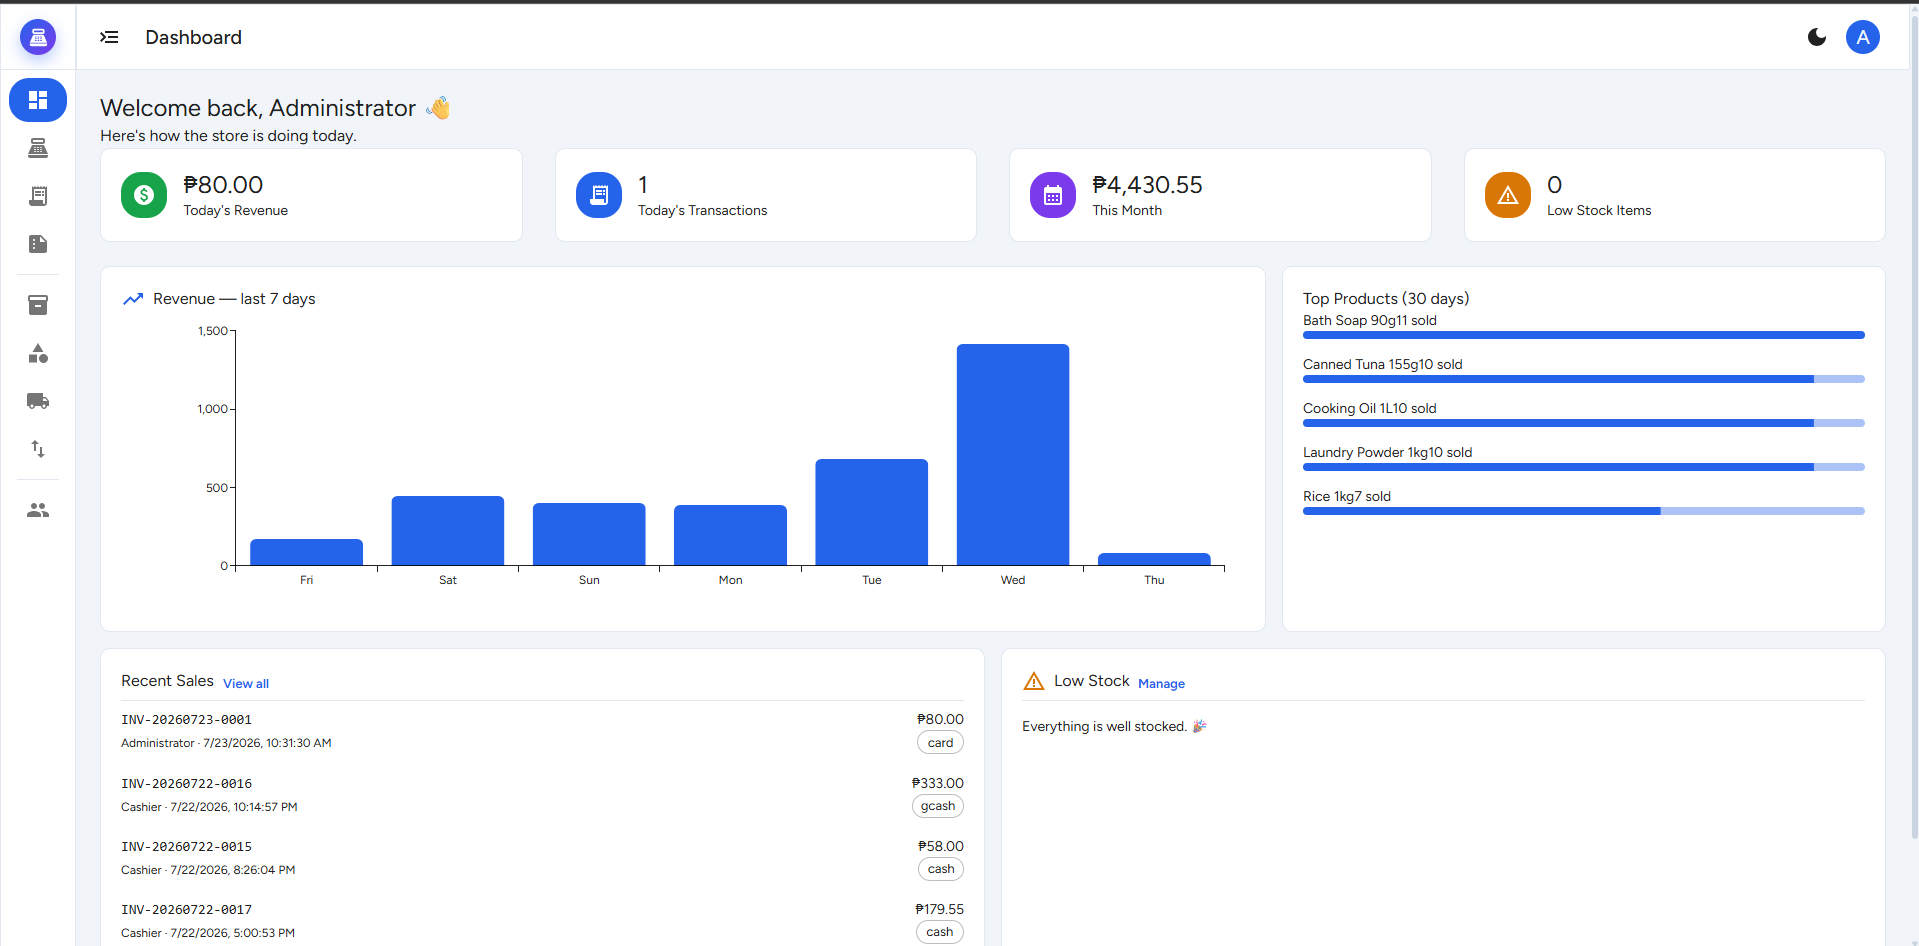
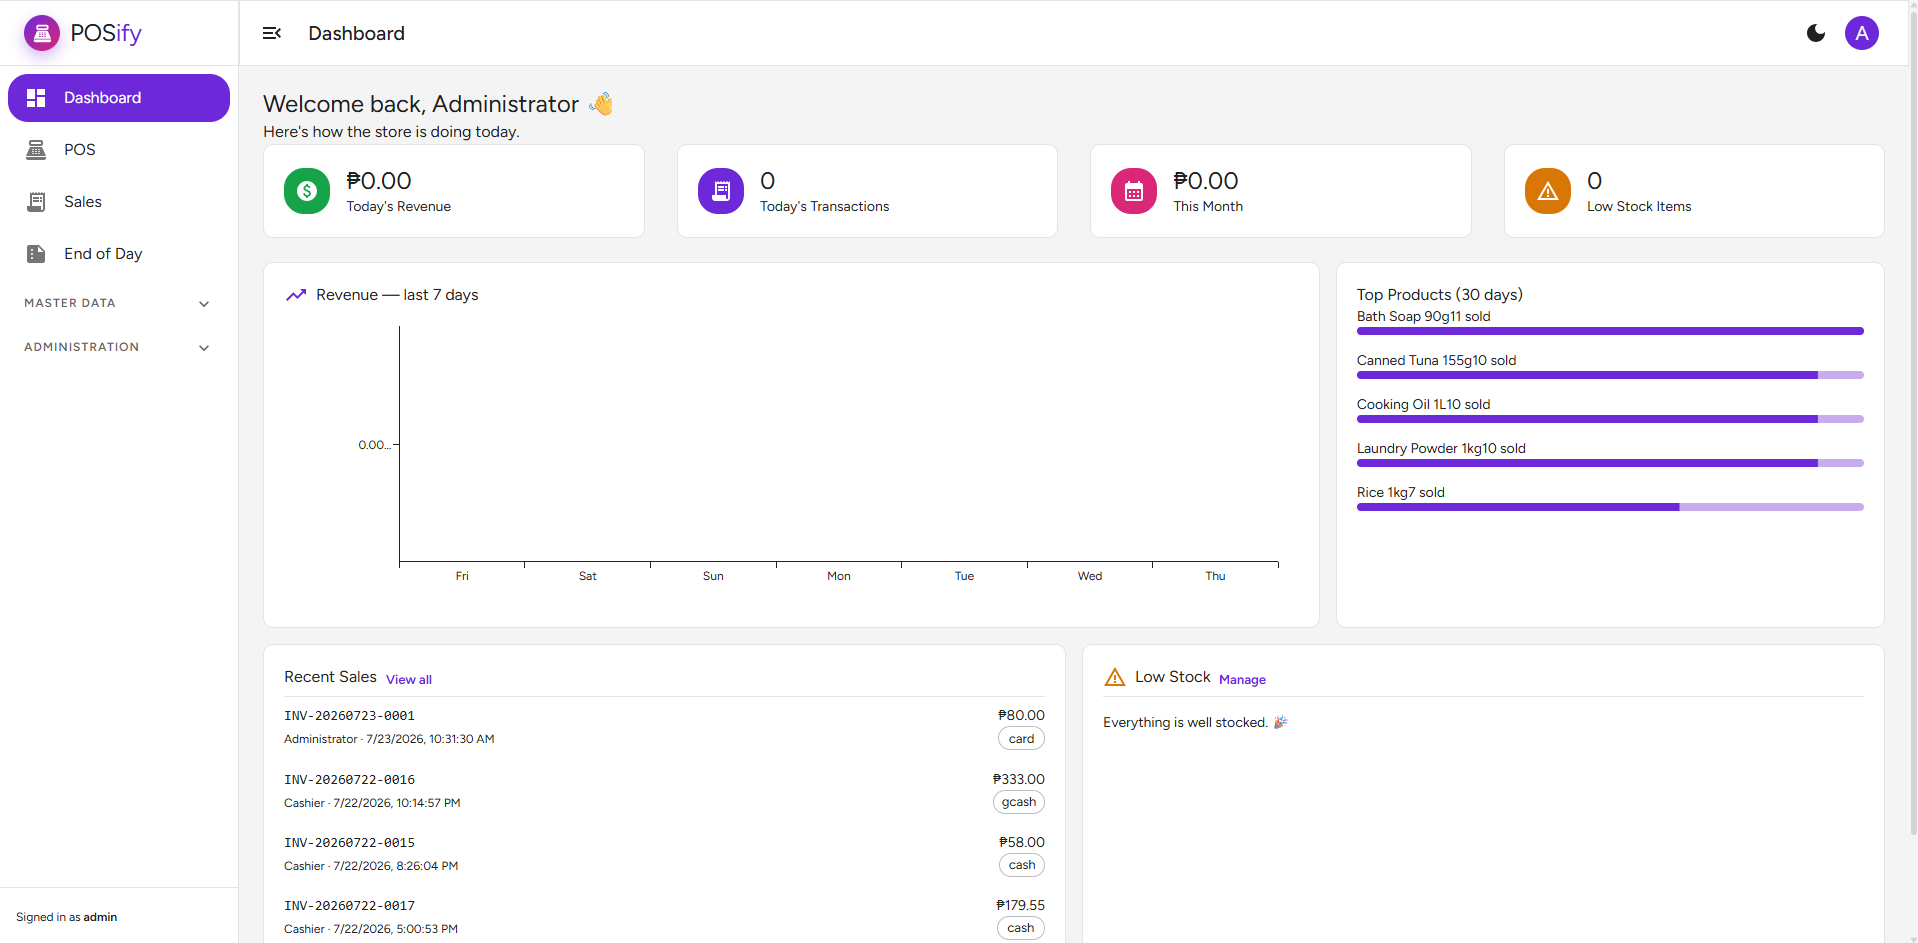
Docs: document the demo logins the seeder actually creates, and refresh screenshots
The README and SETUP.md advertised admin@pos.test / cashier@pos.test. Nothing
in the running demo answered to either, so the one instruction a reviewer
follows first — clone, seed, sign in — was the one that failed.

The seeder now creates the accounts the demo really uses, and both documents
quote them. Verified by re-seeding and checking each password against the hash
rather than trusting the diff.

The Faker-named third admin sitting in the local database is deliberately not
seeded and not documented; it is leftover test data, not a demo account.

Screenshots re-shot against the violet palette.

diff --git a/database/seeders/DatabaseSeeder.php b/database/seeders/DatabaseSeeder.php
@@ -17,20 +17,26 @@ class DatabaseSeeder extends Seeder
     public function run(): void
     {
         // --- Users -----------------------------------------------------
+        // Demo credentials, published in the README and SETUP.md. They exist
+        // so a clone can sign in and look around; they are not secrets and
+        // nothing outside a local demo database should ever use them.
+        //
+        // Keep these in step with both documents. They drifted once already —
+        // the README advertised logins the seeder had never created.
         User::updateOrCreate(
-            ['email' => 'admin@pos.test'],
+            ['email' => 'admin@gmail.com'],
             [
-                'name'      => 'Store Admin',
-                'password'  => Hash::make('password'),
+                'name'      => 'Administrator',
+                'password'  => Hash::make('1234567890'),
                 'role'      => 'admin',
                 'is_active' => true,
             ]
         );
 
         User::updateOrCreate(
-            ['email' => 'cashier@pos.test'],
+            ['email' => 'cashier@gmail.com'],
             [
-                'name'      => 'Store Cashier',
+                'name'      => 'Cashier',
                 'password'  => Hash::make('password'),
                 'role'      => 'cashier',
                 'is_active' => true,

diff --git a/README.md b/README.md
@@ -117,7 +117,14 @@ npm run build
 php artisan serve             # + npm run dev for hot reload
 ```
 
-**Demo accounts** (after seeding): `admin@pos.test` / `password` · `cashier@pos.test` / `password`
+**Demo accounts** (after seeding):
+
+| Role | Email | Password | Sees |
+|---|---|---|---|
+| Admin | `admin@gmail.com` | `1234567890` | Everything — master data, users, any cashier's Z-reading |
+| Cashier | `cashier@gmail.com` | `password` | POS, sales, and their own shift only |
+
+Sign in as both — the difference between them is the point of the access model.
 
 Full build notes and command history: [SETUP.md](SETUP.md)
 

diff --git a/SETUP.md b/SETUP.md
@@ -178,8 +178,8 @@ Run `php artisan migrate:fresh --seed` to reset the DB with sample data.
 
 | Role | Email | Password |
 |------|-------|----------|
-| Admin | `admin@pos.test` | `password` |
-| Cashier | `cashier@pos.test` | `password` |
+| Admin | `admin@gmail.com` | `1234567890` |
+| Cashier | `cashier@gmail.com` | `password` |
 
 Seed data also includes 5 categories, 2 suppliers, and 13 sample products
 (two intentionally low-stock for testing alerts).
